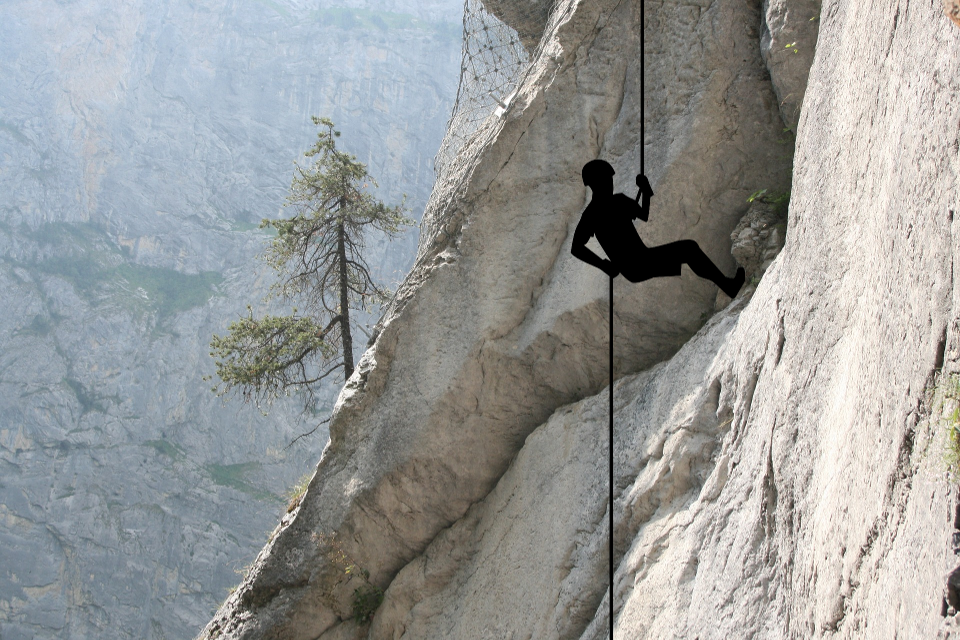
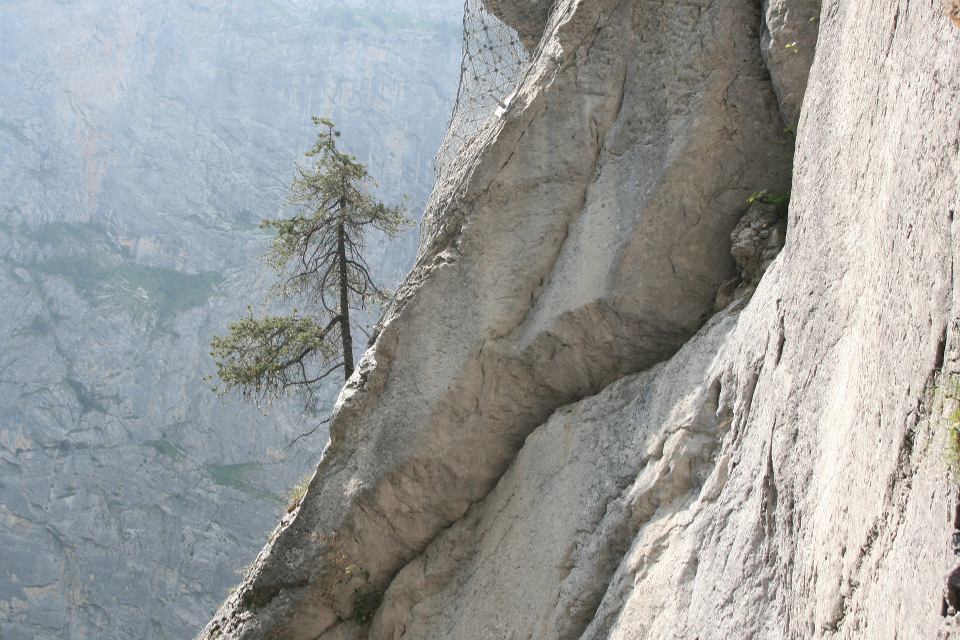
Story Commit
Began Creating a story screen.

Changed region(s): [[0.5938, 0.0, 0.7812, 1.0]]

diff --git a/js/states/Preload.js b/js/states/Preload.js
@@ -7,6 +7,7 @@ TruckDrop.PreloadState = {
         var preloadProgress = this.add.sprite((this.world.width - 540) * 0.5, (this.world.height + 170) * 0.5, 'loading-progress');
         this.load.setPreloadSprite(preloadProgress);
 
+        this.load.image('story', 'assets/images/Story.png');
         this.load.image('bomb', 'assets/images/bomb.png');
         this.load.image('emptyHeart', 'assets/images/heartEmpty.png');
         this.load.image('halfHeart', 'assets/images/heartHalf.png');
@@ -18,6 +19,7 @@ TruckDrop.PreloadState = {
         this.load.spritesheet('truck', 'assets/images/player.png', 116, 100, 5);
         this.load.spritesheet('trucks', 'assets/images/player-Horizontal.png', 117, 59, 5);
         this.load.spritesheet('parasprite', 'assets/images/paraSprite.png', 200, 155, 5);
+        this.load.spritesheet('climber', 'assets/images/climberSpriteSheet.png', 270, 640, 5);
         
         this.load.tilemap('hillSand','assets/maps/hillSand.json', null, Phaser.Tilemap.TILED_JSON);
         this.load.tilemap('coinSand','assets/maps/coinSand.json', null, Phaser.Tilemap.TILED_JSON);

diff --git a/js/states/Story.js b/js/states/Story.js
@@ -4,7 +4,24 @@ TruckDrop.StoryState = {
     create: function ()
     {
         TruckDrop.currLevel=0;
-        this.game.state.start('Transition');
+        this.add.sprite(0, 0, 'story');
+        
+        this.climber = this.add.sprite(500, 0, 'climber');
+        this.climber.animations.add('climb');
+        this.climber.animations.play('climb', 2, false);
+        
+        //Create the truck (player)
+        this.truck = this.add.sprite(250, -20, 'truck');
+        this.truck.animations.add('roll');
+        this.truck.animations.play('roll', 5, true);
+        this.truck.anchor.setTo(0.9, 0.9);
+        
+        this.parachute = this.add.sprite(-170, -235, 'parachute');
+        this.truck.addChild(this.parachute);
+        
+        this.add.tween(this.truck).to({y: 1000}, 4000, "Linear", true);
+        
+        //this.game.state.start('Transition');
     }
 };
 /*Copyright (C) Wayside Co. - All Rights Reserved
